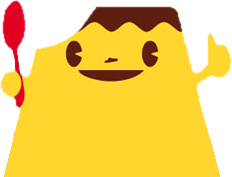
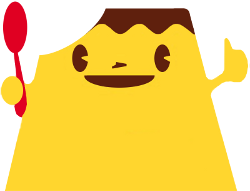
Thanks for the new graphics, coffee!

diff --git a/readme.md b/readme.md
@@ -12,3 +12,5 @@ Get extra points by running right!
 If you get 100 donuts, you win the game!
 
 PUDDI PUDDI PUDDI PUDDI PUDDI PUDDI PUDDI PUDDI PUDDI PUDDI PUDDI PUDDI PUDDI PUDDI PUDDI PUDDI PUDDI PUDDI PUDDI PUDDI PUDDI PUDDI PUDDI PUDDI PUDDI PUDDI PUDDI PUDDI PUDDI PUDDI 
+
+Shout out to <a href="https://love2d.org/forums/memberlist.php?mode=viewprofile&u=3988">Coffee</a> who redrew a bunch of the sprites!
